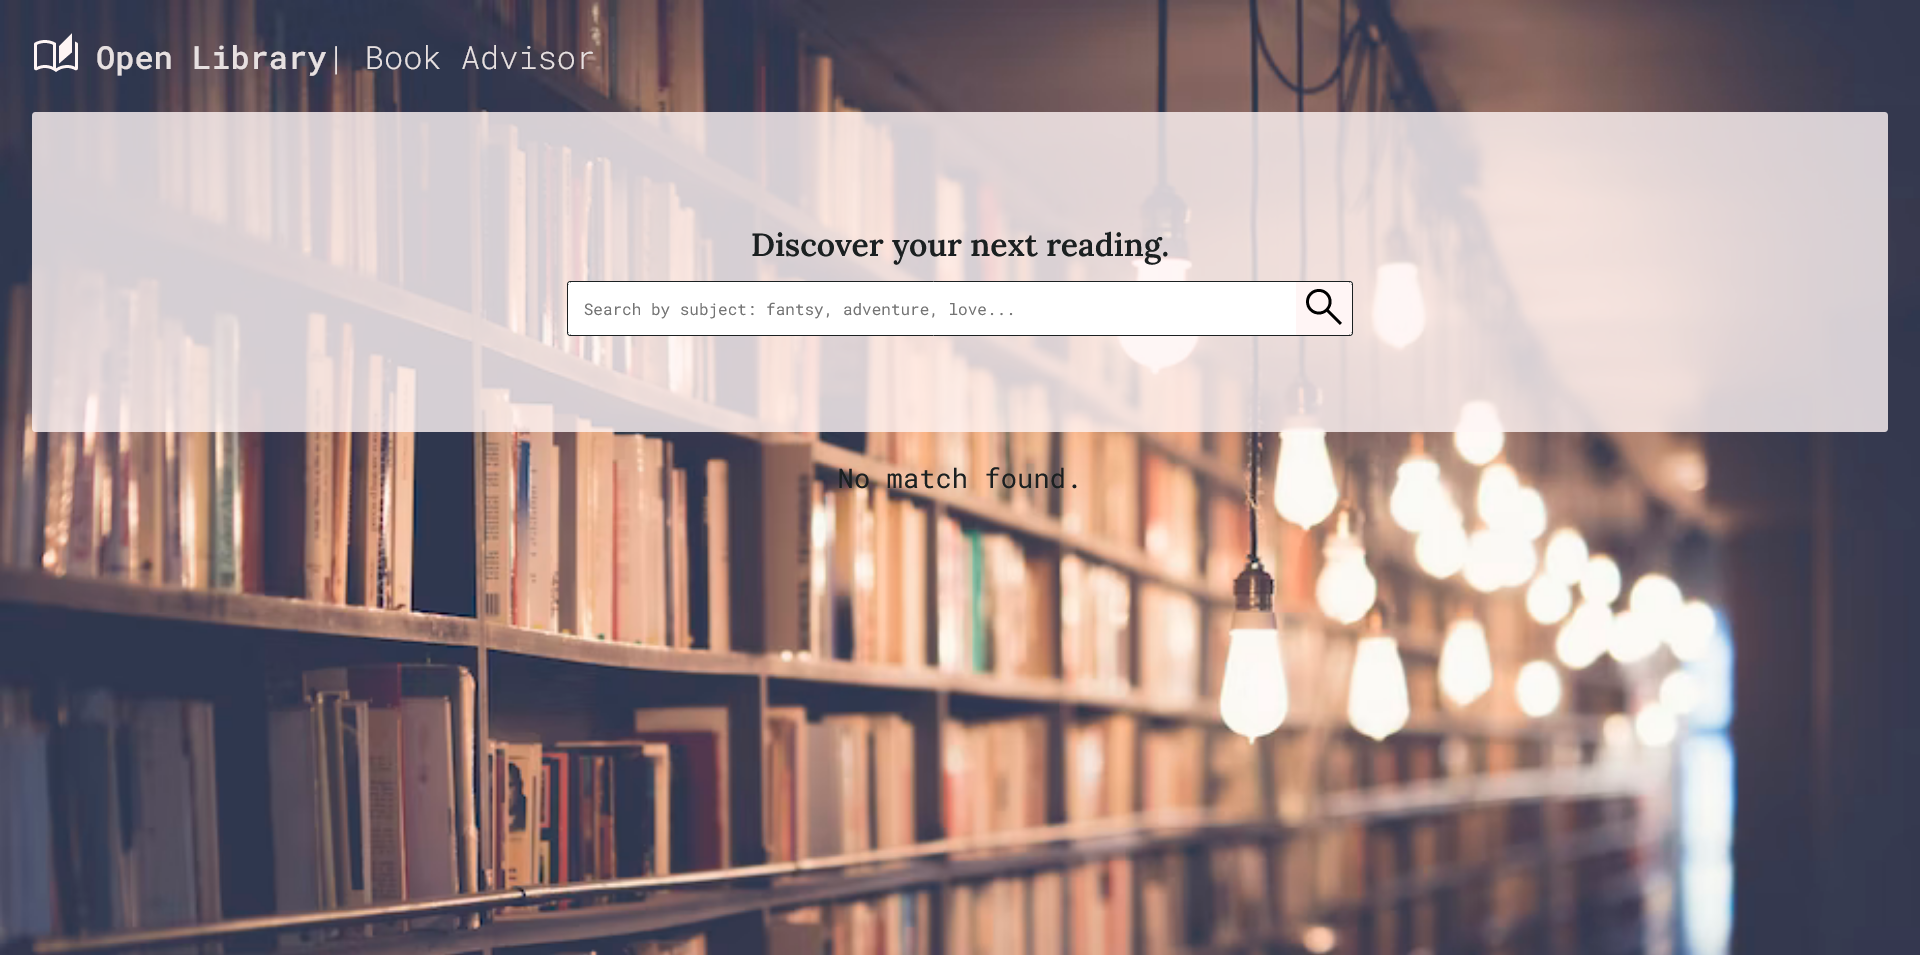
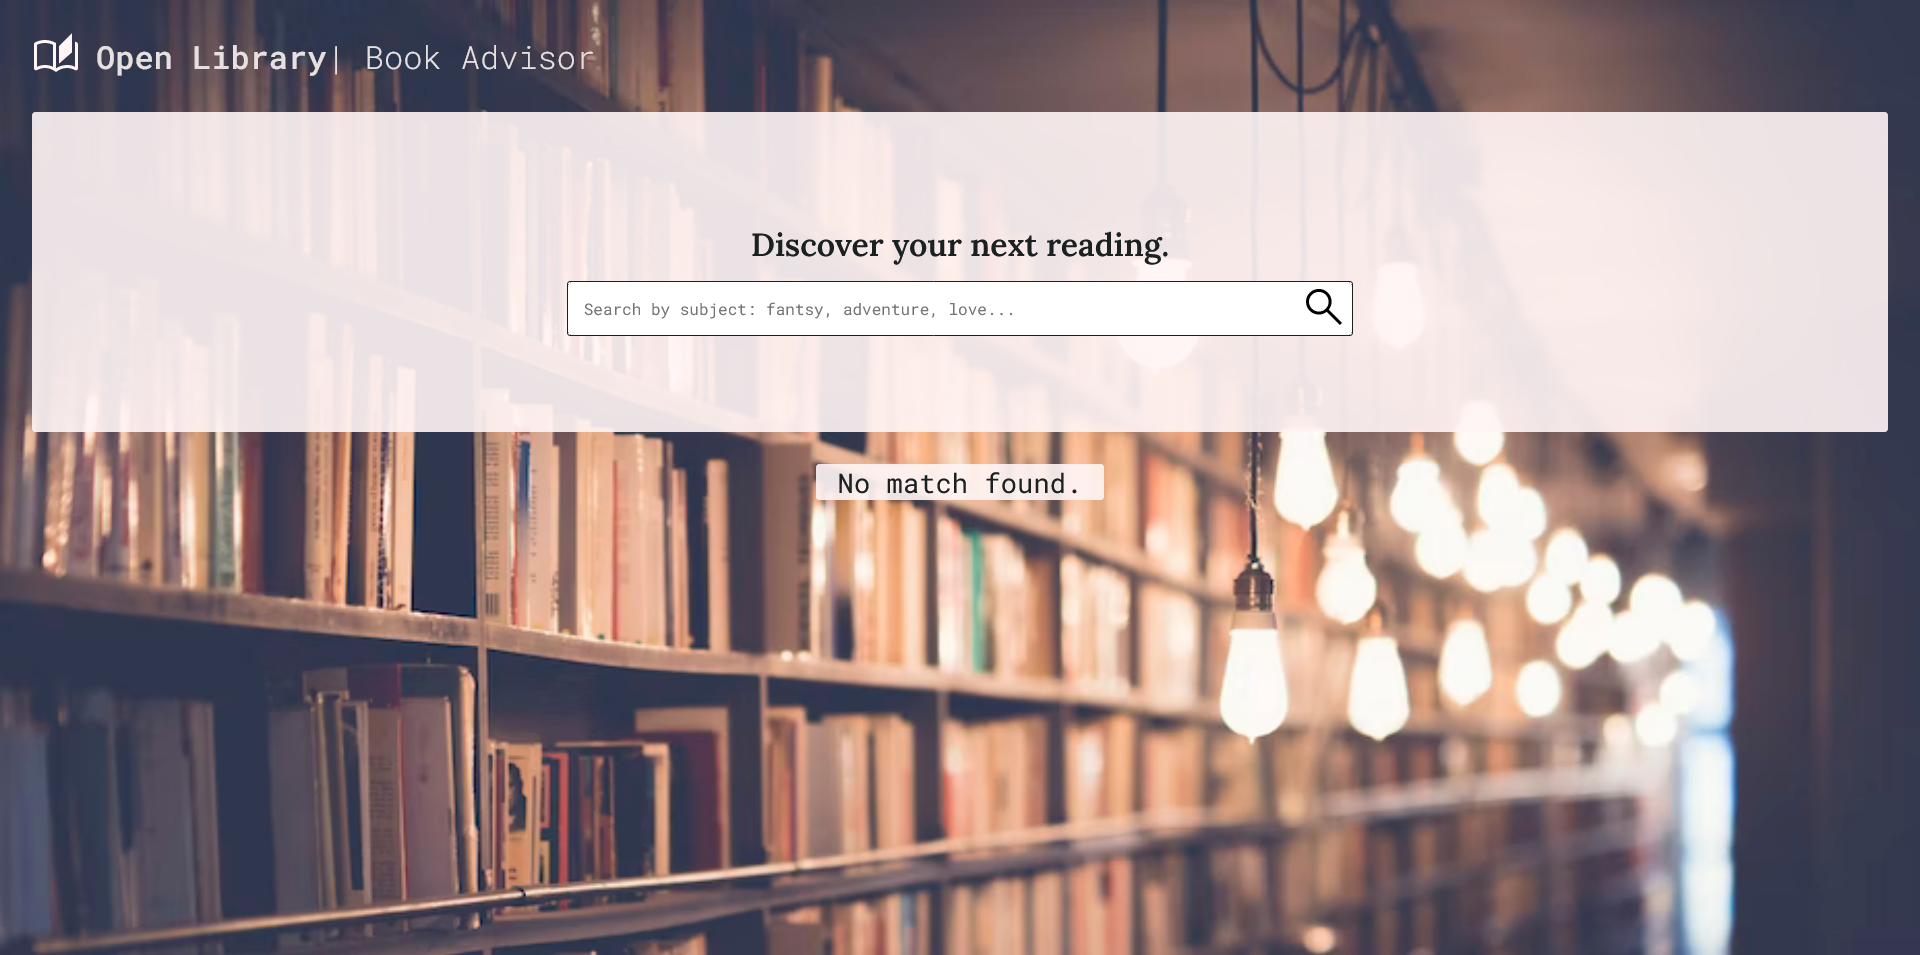
fix screenshots and container transparency

Changed region(s): [[0.4062, 0.4859, 0.5938, 0.5466]]

diff --git a/style.css b/style.css
@@ -63,7 +63,7 @@ h2 {
   flex-direction: column;
   justify-content: center;
   margin: 0 2rem;
-  background-color: rgba(255, 245, 245, 0.6);
+  background-color: rgba(255, 245, 245, 0.9);
   padding: 1rem;
   border-radius: 0.2rem;
 }
@@ -111,14 +111,14 @@ ul {
   text-align: center;
   font-size: 1.7rem;
   color: var(--eerie-black);
-  max-width: 20rem;
+  max-width: 18rem;
   margin: 2rem auto;
-  background-color: rgba(255, 245, 245, 0.6);
+  background-color: rgba(255, 245, 245, 0.9);
   border-radius: 0.2rem;
 }
 
 .list-item {
-  background-color: rgba(255, 245, 245, 0.6);
+  background-color: rgba(255, 245, 245, 0.9);
   margin: 1rem auto;
   padding: 1rem 2rem;
   max-width: 60rem;
@@ -143,16 +143,16 @@ ul {
   padding: 0.5rem;
   margin-top: 1rem;
   display: block;
-  transition: 150ms border linear;
-  border: 1px solid var(--pale-pink);
+  transition: 100ms background-color linear;
+  border: 1px solid var(--eerie-black);
   border-radius: 0.2rem;
 }
 .list-item button:active {
-  background-color: var(--dark-pink);
+  background-color: var(--gunmetal);
 }
 
 .list-item button:hover {
-  border: 1px solid var(--eerie-black);
+  background-color: var(--dark-pink);
 }
 
 .description-paragraph {

diff --git a/README.md b/README.md
@@ -16,7 +16,7 @@ Nel momento in cui viene avviata la ricerca è mostrato a schermo un feedback vi
 
 ## Screenshots
 
-![active-state](/screenshots/Active-state.png)
+![active](/screenshots/Active.png)
 ![error](/screenshots/Error.png)
 
 ## Costruito con:
